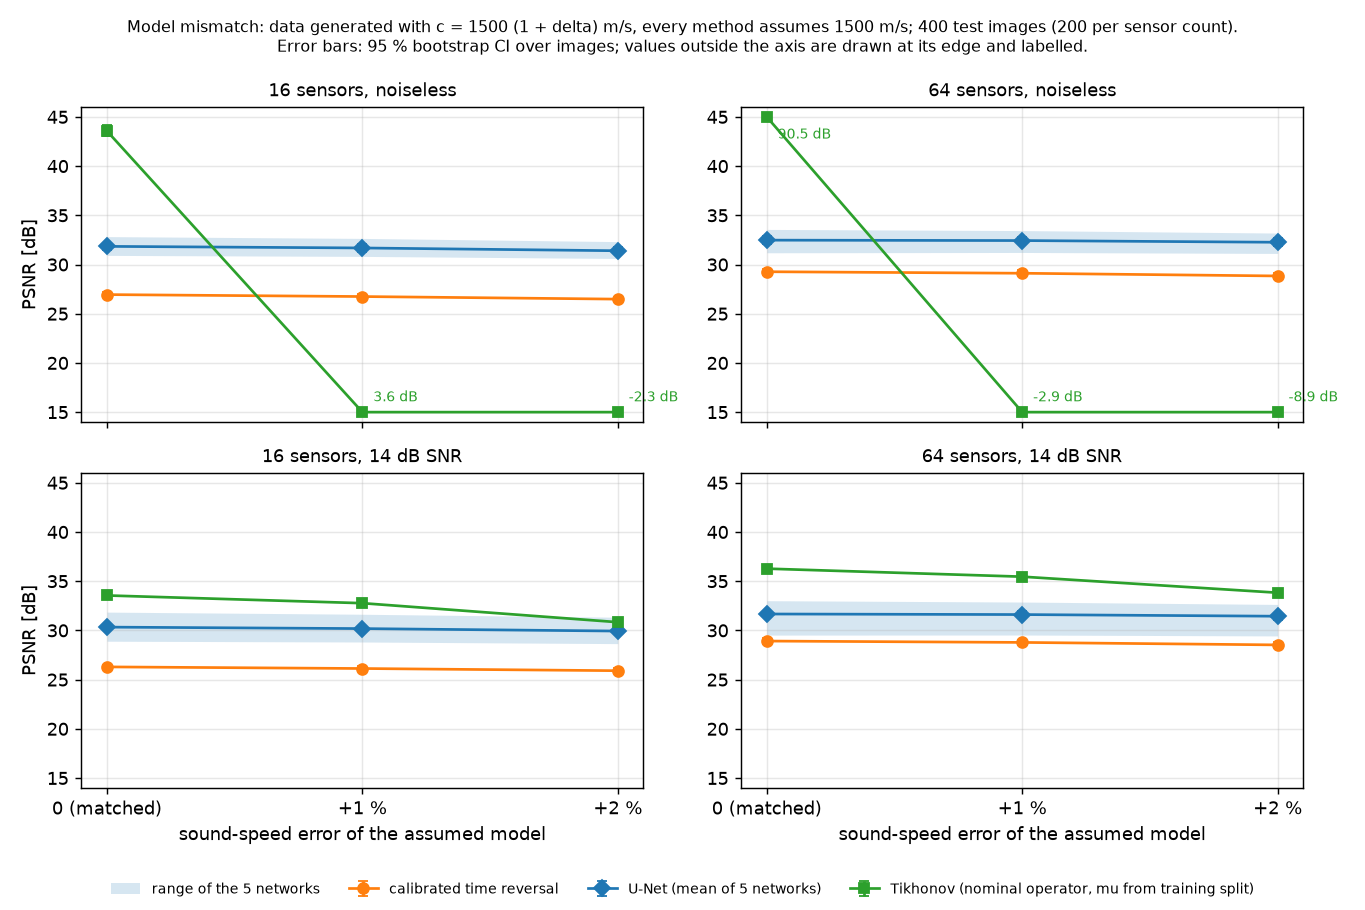
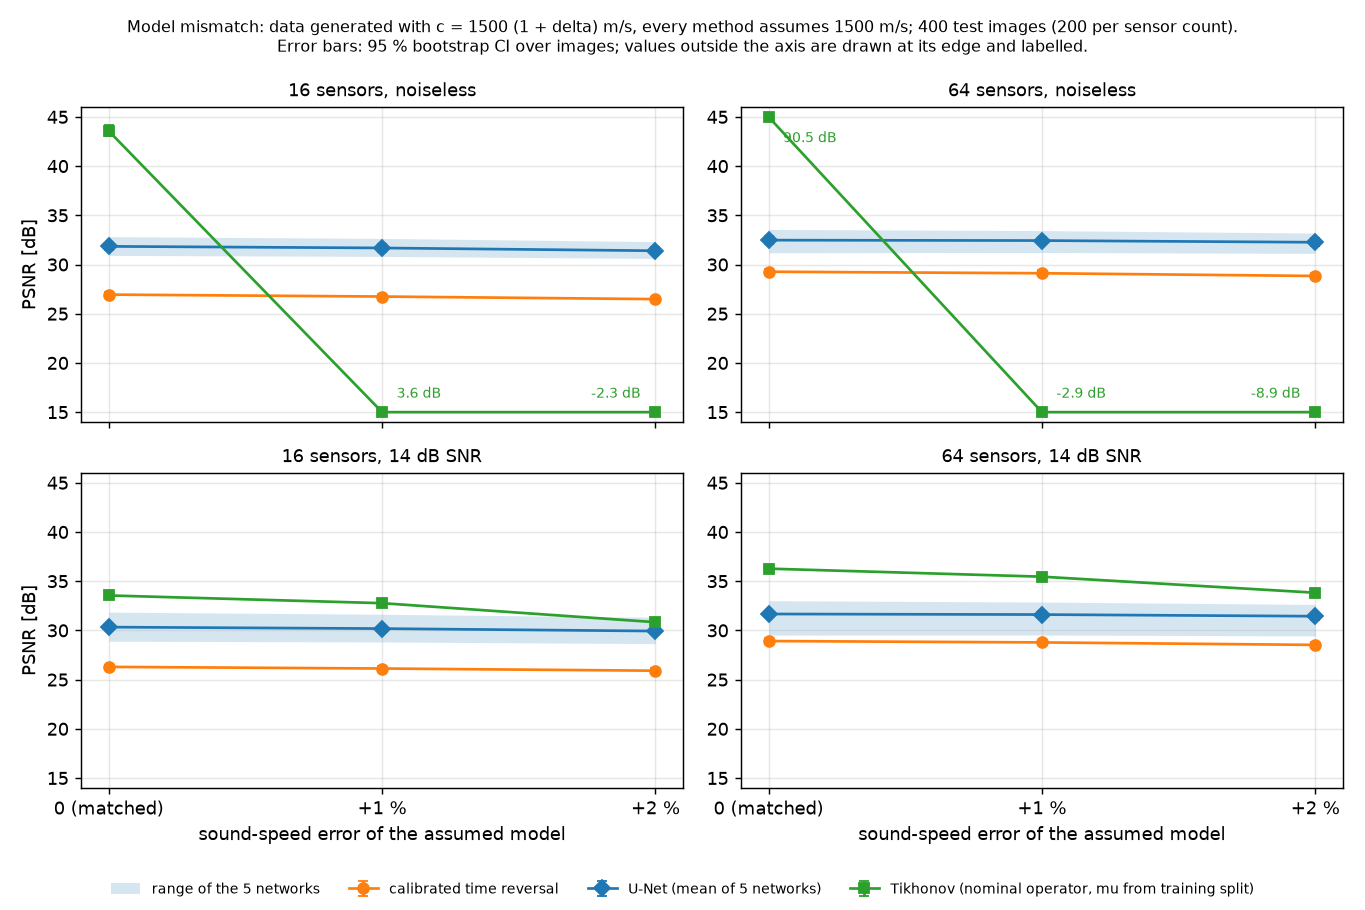
Qualify the photoacoustic Tikhonov wording and remove the internal claim audit
- Project result (card, case-study result and meta descriptions): Tikhonov
  "scores higher when the forward model is exact, and its lead shrinks under
  model error" replaces "is stronger but relies on an inverse crime", which
  omitted the known-noise-level condition and that the lead partly survives
  a 1-2 % sound-speed error.
- Case study: states the metric and comparison ("in PSNR at every noise level
  against the average network, and in SSIM except at 6 dB SNR with 16 sensors,
  where the two are level") instead of "better still".
- Research page link: "Sparse-view photoacoustic reconstruction".
- model_mismatch.png: the corrected figure from photoacoustic-reconstruction
  (off-scale labels inside the axes; same data).
- WEBSITE_CLAIM_AUDIT.md was an internal working document that still listed the
  superseded +11.8 / +10.6 dB and 0.936 / 0.188 results; removed from the public
  repository (kept outside it).

diff --git a/projects/photoacoustic.html b/projects/photoacoustic.html
@@ -4,12 +4,12 @@
 <meta charset="UTF-8">
 <meta name="viewport" content="width=device-width, initial-scale=1.0">
 <title>Sparse-view photoacoustic reconstruction | Adebanji Adelowo</title>
-<meta name="description" content="U-Net: +4.9 dB (16 sensors) and +3.2 dB (64) PSNR over calibrated time-reversal on 400 test images; exact-model Tikhonov is stronger but relies on an inverse crime.">
+<meta name="description" content="U-Net: +4.9 dB (16 sensors) and +3.2 dB (64) PSNR over calibrated time-reversal on 400 test images; Tikhonov with a noise-matched weight scores higher when the forward model is exact, and its lead shrinks under model error.">
 <link rel="canonical" href="https://adebanjioluwatimileyin.github.io/projects/photoacoustic.html">
 <meta property="og:type" content="website">
 <meta property="og:site_name" content="Adebanji Adelowo">
 <meta property="og:title" content="Sparse-view photoacoustic reconstruction | Adebanji Adelowo">
-<meta property="og:description" content="U-Net: +4.9 dB (16 sensors) and +3.2 dB (64) PSNR over calibrated time-reversal on 400 test images; exact-model Tikhonov is stronger but relies on an inverse crime.">
+<meta property="og:description" content="U-Net: +4.9 dB (16 sensors) and +3.2 dB (64) PSNR over calibrated time-reversal on 400 test images; Tikhonov with a noise-matched weight scores higher when the forward model is exact, and its lead shrinks under model error.">
 <meta property="og:url" content="https://adebanjioluwatimileyin.github.io/projects/photoacoustic.html">
 <meta property="og:image" content="https://adebanjioluwatimileyin.github.io/images/social/portfolio.png">
 <meta property="og:image:width" content="1200">
@@ -50,7 +50,7 @@
     <div class="page-content"><p class="eyebrow case-category">Inverse problems · Imaging</p>
 <div class="contribution"><h2>My contribution</h2><p>I compared calibrated time-reversal, a learned U-Net refinement and Tikhonov-regularised inversion on synthetic acoustic data, including a multi-network evaluation and a model-mismatch check.</p></div>
 <p class="project-status">Research implementation</p>
-<p class="case-result">U-Net: +4.9 dB (16 sensors) and +3.2 dB (64) PSNR over calibrated time-reversal on 400 test images; exact-model Tikhonov is stronger but relies on an inverse crime.</p>
+<p class="case-result">U-Net: +4.9 dB (16 sensors) and +3.2 dB (64) PSNR over calibrated time-reversal on 400 test images; Tikhonov with a noise-matched weight scores higher when the forward model is exact, and its lead shrinks under model error.</p>
 <div class="cta-row"><a class="btn btn-primary" href="https://github.com/AdebanjiAdelowo/photoacoustic-reconstruction">View source code ↗</a><a class="btn btn-outline" href="../projects.html#photoacoustic">All projects</a></div><div class="research-facet">
           <h2 class="facet-label">Problem</h2>
           <p>Reconstructing the initial pressure distribution of an imaged structure from sparse-view photoacoustic sensor measurements (a PDE-governed acoustic inverse problem), where classical time-reversal reconstruction degrades into streak artefacts as the sensor array is undersampled.</p>
@@ -68,7 +68,7 @@
 
         <div class="research-facet">
           <h2 class="facet-label">Result</h2>
-          <p>The U-Net improves PSNR over calibrated time-reversal by 4.9 dB at 16 sensors and 3.2 dB at 64, with about 2 dB variation between trained networks; most of the 11 to 12 dB gap to raw time-reversal is amplitude scale. Tikhonov with the exact forward operator and a weight tuned for the known noise level is better still, but this is an inverse crime: its noiseless values (43.6 and 90.5 dB) are near-exact inversion of data generated by the same operator.</p>
+          <p>The U-Net improves PSNR over calibrated time-reversal by 4.9 dB at 16 sensors and 3.2 dB at 64, with about 2 dB variation between trained networks; most of the 11 to 12 dB gap to raw time-reversal is amplitude scale. Tikhonov with the exact forward operator and a weight tuned for the known noise level scores higher still (in PSNR at every noise level against the average network, and in SSIM except at 6 dB SNR with 16 sensors, where the two are level), but this is an inverse crime: its noiseless values (43.6 and 90.5 dB) are near-exact inversion of data generated by the same operator.</p>
           <div class="stat-row">
             <div class="stat"><span class="stat-value">+4.9 dB</span><span class="stat-label">U-Net vs. Calibrated Time-Reversal, 16 Sensors</span></div>
             <div class="stat"><span class="stat-value">+3.2 dB</span><span class="stat-label">U-Net vs. Calibrated Time-Reversal, 64 Sensors</span></div>

diff --git a/research.html b/research.html
@@ -51,7 +51,7 @@
 <nav class="section-nav" aria-label="Research themes"><a href="#reduced-order-sciml">Scientific ML</a><a href="#inverse-problems">Inference &amp; uncertainty</a><a href="#numerical-pdes">Numerical simulation</a></nav>
 <section class="research-area" id="reduced-order-sciml"><h2>Reduced-order modelling &amp; scientific ML</h2><p class="research-question">When does a fast approximation remain useful beyond the data or trajectories used to build it?</p><p>I compare POD-Galerkin models, DEIM hyper-reduction, neural operators, and physics-informed networks. For Burgers’ equation, four reduced or learned approximations are evaluated against a full-order solver, including tests on an unseen initial-condition family.</p><p>My focus is the relationship between accuracy, computational cost, and generalisation. This includes negative findings: a flow-specific POD basis can fail on unseen realisations, and stronger boundary constraints in a PINN need not improve global solution accuracy.</p><figure class="research-preview"><a href="./projects/burgers-rom.html"><img src="./images/burgers-rom/deim_fno_comparison.png" width="1680" height="480" alt="Three in-distribution test cases comparing ground truth, POD-ROM, DEIM-ROM, MLP surrogate, and FNO solutions of the viscous Burgers&#x27; equation" loading="lazy" decoding="async"></a><figcaption><a href="./projects/burgers-rom.html">Reduced models &amp; neural operators →</a></figcaption></figure><ul class="work-links project-order">
 <li><a href="./projects/burgers-rom.html">Reduced models and neural operators for Burgers’ equation →</a></li>
-<li><a href="./projects/photoacoustic.html">Learned photoacoustic reconstruction →</a></li>
+<li><a href="./projects/photoacoustic.html">Sparse-view photoacoustic reconstruction →</a></li>
 <li><a href="./projects/pinn.html">Physics-informed advection–diffusion →</a></li>
 </ul></section>
 <section class="research-area" id="inverse-problems"><span id="uncertainty-quantification" class="anchor-alias"></span><span id="dynamical-systems" class="anchor-alias"></span><h2>Inverse problems, optimisation &amp; uncertainty</h2><p class="research-question">What can sparse or noisy observations tell us about a physical system, and how reliable are the resulting estimates?</p><p>I work with adjoint-based PDE-constrained optimisation, regularisation, Bayesian inversion, and ensemble data assimilation. My implementations combine forward-solver checks with gradient tests or independent statistical reference problems.</p><p>My Lorenz-96 experiments investigate ensemble under-dispersion and localisation; my Darcy study examines regularisation mismatch and posterior mixing. These studies distinguish a good point estimate from a well-characterised uncertainty distribution.</p><figure class="research-preview"><a href="./projects/lorenz96.html"><img src="./images/lorenz96-data-assimilation/localization_study_full.jpg" width="975" height="675" alt="Assimilation RMSE versus Gaspari-Cohn localisation radius, showing over an eleven-fold reduction relative to the unlocalized baseline at the best tested radius" loading="lazy" decoding="async"></a><figcaption><a href="./projects/lorenz96.html">Data assimilation for chaotic Lorenz-96 →</a></figcaption></figure><ul class="work-links project-order">

diff --git a/content/research.html b/content/research.html
@@ -2,7 +2,7 @@
 <nav class="section-nav" aria-label="Research themes"><a href="#reduced-order-sciml">Scientific ML</a><a href="#inverse-problems">Inference &amp; uncertainty</a><a href="#numerical-pdes">Numerical simulation</a></nav>
 <section class="research-area" id="reduced-order-sciml"><h2>Reduced-order modelling &amp; scientific ML</h2><p class="research-question">When does a fast approximation remain useful beyond the data or trajectories used to build it?</p><p>I compare POD-Galerkin models, DEIM hyper-reduction, neural operators, and physics-informed networks. For Burgers’ equation, four reduced or learned approximations are evaluated against a full-order solver, including tests on an unseen initial-condition family.</p><p>My focus is the relationship between accuracy, computational cost, and generalisation. This includes negative findings: a flow-specific POD basis can fail on unseen realisations, and stronger boundary constraints in a PINN need not improve global solution accuracy.</p><figure class="research-preview"><a href="./projects/burgers-rom.html"><img src="./images/burgers-rom/deim_fno_comparison.png" width="1680" height="480" alt="Three in-distribution test cases comparing ground truth, POD-ROM, DEIM-ROM, MLP surrogate, and FNO solutions of the viscous Burgers&#x27; equation" loading="lazy" decoding="async"></a><figcaption><a href="./projects/burgers-rom.html">Reduced models &amp; neural operators →</a></figcaption></figure><ul class="work-links project-order">
 <li><a href="./projects/burgers-rom.html">Reduced models and neural operators for Burgers’ equation →</a></li>
-<li><a href="./projects/photoacoustic.html">Learned photoacoustic reconstruction →</a></li>
+<li><a href="./projects/photoacoustic.html">Sparse-view photoacoustic reconstruction →</a></li>
 <li><a href="./projects/pinn.html">Physics-informed advection–diffusion →</a></li>
 </ul></section>
 <section class="research-area" id="inverse-problems"><span id="uncertainty-quantification" class="anchor-alias"></span><span id="dynamical-systems" class="anchor-alias"></span><h2>Inverse problems, optimisation &amp; uncertainty</h2><p class="research-question">What can sparse or noisy observations tell us about a physical system, and how reliable are the resulting estimates?</p><p>I work with adjoint-based PDE-constrained optimisation, regularisation, Bayesian inversion, and ensemble data assimilation. My implementations combine forward-solver checks with gradient tests or independent statistical reference problems.</p><p>My Lorenz-96 experiments investigate ensemble under-dispersion and localisation; my Darcy study examines regularisation mismatch and posterior mixing. These studies distinguish a good point estimate from a well-characterised uncertainty distribution.</p><figure class="research-preview"><a href="./projects/lorenz96.html"><img src="./images/lorenz96-data-assimilation/localization_study_full.jpg" width="975" height="675" alt="Assimilation RMSE versus Gaspari-Cohn localisation radius, showing over an eleven-fold reduction relative to the unlocalized baseline at the best tested radius" loading="lazy" decoding="async"></a><figcaption><a href="./projects/lorenz96.html">Data assimilation for chaotic Lorenz-96 →</a></figcaption></figure><ul class="work-links project-order">

diff --git a/projects.html b/projects.html
@@ -65,7 +65,7 @@
     <p class="project-status">Applied ML collection</p><p class="card-purpose">Building and evaluating practical language-model systems.</p><p>FinBERT student: 96.91% accuracy and 0.9691 weighted F1 on a 453-sentence test split.</p><a class="section-link" href="./projects/llm-portfolio.html" aria-label="Read case study: LLM systems &amp; model compression">Read case study →</a></div></article><article class="project-card" id="photoacoustic" data-group="learning">
     <a class="project-preview" href="./projects/photoacoustic.html"><img src="./images/photoacoustic/mvp_comparison.png" alt="Ground truth, raw time-reversal and learned-refinement photoacoustic reconstructions for four test phantoms at 16 and 64 sensors" class="" width="1440" height="1080" loading="lazy" decoding="async"><span>Research figure · open case study for context</span></a><div class="card-body"><p class="eyebrow">Inverse problems · Imaging</p>
     <h3><a href="./projects/photoacoustic.html">Sparse-view photoacoustic reconstruction</a></h3>
-    <p class="project-status">Research implementation</p><p class="card-purpose">Reconstructing images from sparse acoustic measurements.</p><p>U-Net: +4.9 dB (16 sensors) and +3.2 dB (64) PSNR over calibrated time-reversal on 400 test images; exact-model Tikhonov is stronger but relies on an inverse crime.</p><a class="section-link" href="./projects/photoacoustic.html" aria-label="Read case study: Sparse-view photoacoustic reconstruction">Read case study →</a></div></article><article class="project-card" id="diff-pbr" data-group="learning">
+    <p class="project-status">Research implementation</p><p class="card-purpose">Reconstructing images from sparse acoustic measurements.</p><p>U-Net: +4.9 dB (16 sensors) and +3.2 dB (64) PSNR over calibrated time-reversal on 400 test images; Tikhonov with a noise-matched weight scores higher when the forward model is exact, and its lead shrinks under model error.</p><a class="section-link" href="./projects/photoacoustic.html" aria-label="Read case study: Sparse-view photoacoustic reconstruction">Read case study →</a></div></article><article class="project-card" id="diff-pbr" data-group="learning">
     <a class="project-preview" href="./projects/diff-pbr.html"><img src="./images/diff-pbr/material_maps.png" alt="Recovered albedo, normal, roughness and metallic material maps from differentiable PBR optimisation" class="" width="1722" height="500" loading="lazy" decoding="async"><span>Research figure · open case study for context</span></a><div class="card-body"><p class="eyebrow">Inverse rendering</p>
     <h3><a href="./projects/diff-pbr.html">Differentiable material recovery</a></h3>
     <p class="project-status">Research implementation</p><p class="card-purpose">Recovering surface materials from multiple images.</p><p>Held-out-view MSE: 1.02×10⁻⁵, approximately 5.6× the training-view error.</p><a class="section-link" href="./projects/diff-pbr.html" aria-label="Read case study: Differentiable material recovery">Read case study →</a></div></article><article class="project-card" id="cylinder-flow" data-group="numerical">

diff --git a/content/projects/photoacoustic.html b/content/projects/photoacoustic.html
@@ -15,7 +15,7 @@
 
         <div class="research-facet">
           <h2 class="facet-label">Result</h2>
-          <p>The U-Net improves PSNR over calibrated time-reversal by 4.9 dB at 16 sensors and 3.2 dB at 64, with about 2 dB variation between trained networks; most of the 11 to 12 dB gap to raw time-reversal is amplitude scale. Tikhonov with the exact forward operator and a weight tuned for the known noise level is better still, but this is an inverse crime: its noiseless values (43.6 and 90.5 dB) are near-exact inversion of data generated by the same operator.</p>
+          <p>The U-Net improves PSNR over calibrated time-reversal by 4.9 dB at 16 sensors and 3.2 dB at 64, with about 2 dB variation between trained networks; most of the 11 to 12 dB gap to raw time-reversal is amplitude scale. Tikhonov with the exact forward operator and a weight tuned for the known noise level scores higher still (in PSNR at every noise level against the average network, and in SSIM except at 6 dB SNR with 16 sensors, where the two are level), but this is an inverse crime: its noiseless values (43.6 and 90.5 dB) are near-exact inversion of data generated by the same operator.</p>
           <div class="stat-row">
             <div class="stat"><span class="stat-value">+4.9 dB</span><span class="stat-label">U-Net vs. Calibrated Time-Reversal, 16 Sensors</span></div>
             <div class="stat"><span class="stat-value">+3.2 dB</span><span class="stat-label">U-Net vs. Calibrated Time-Reversal, 64 Sensors</span></div>
